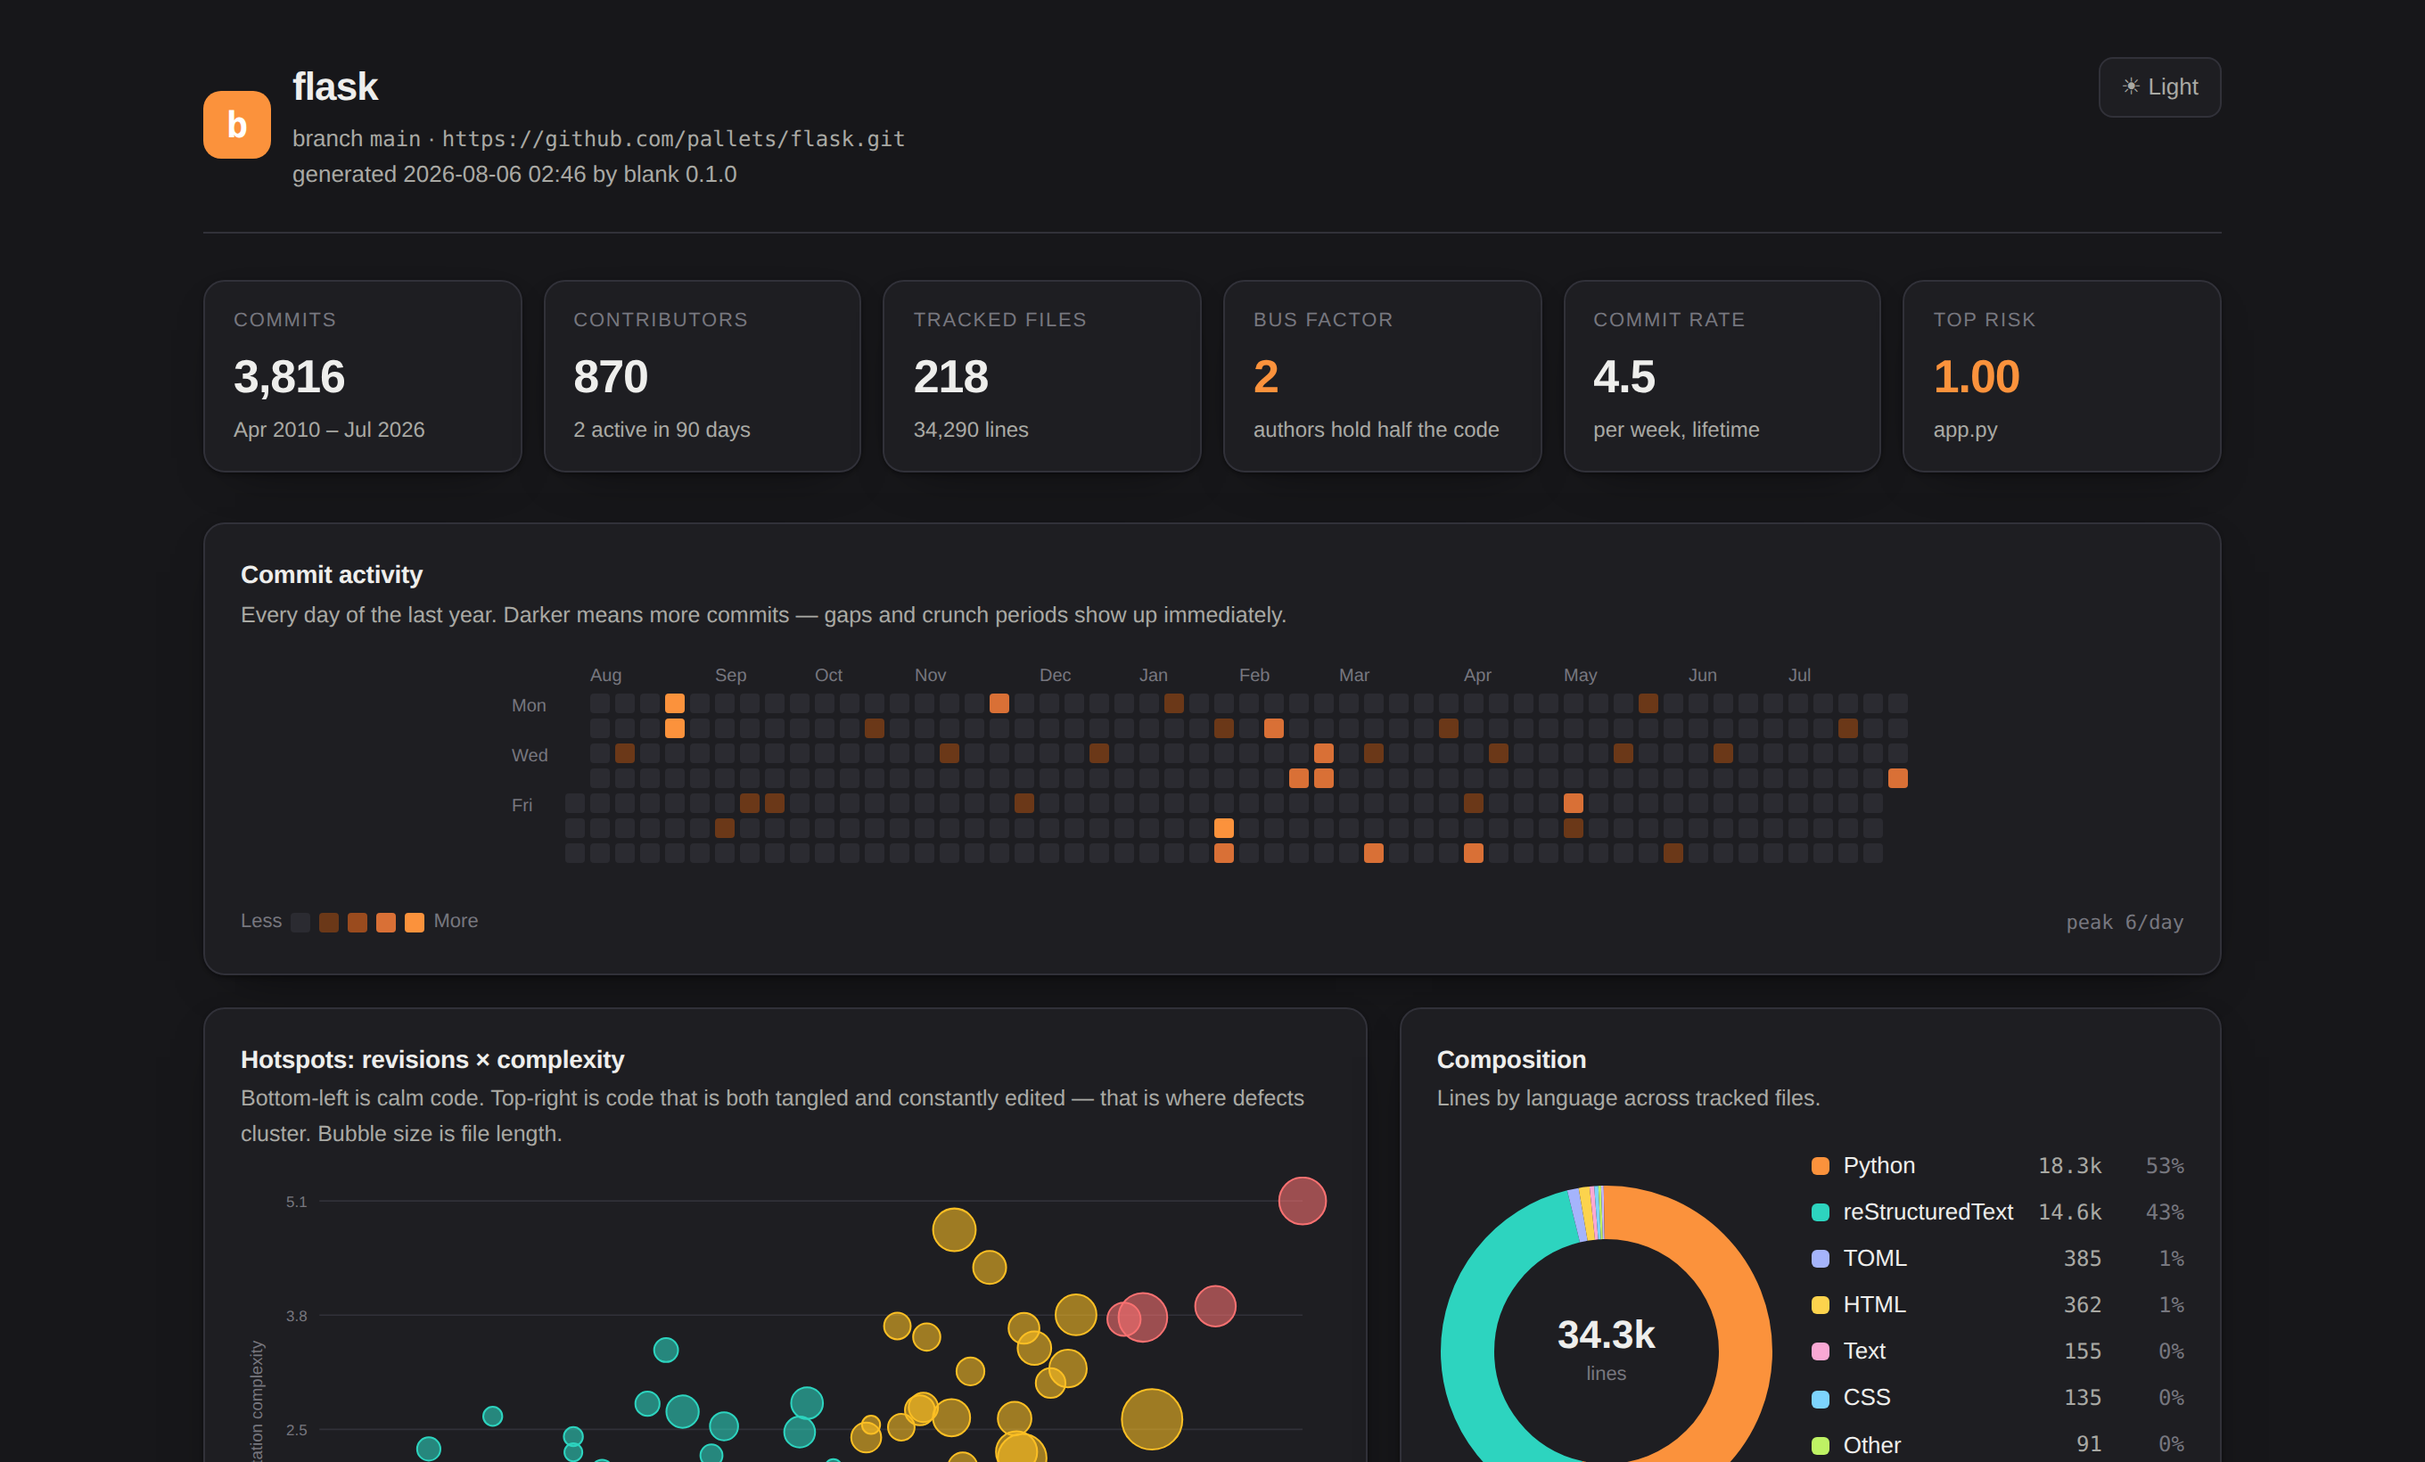
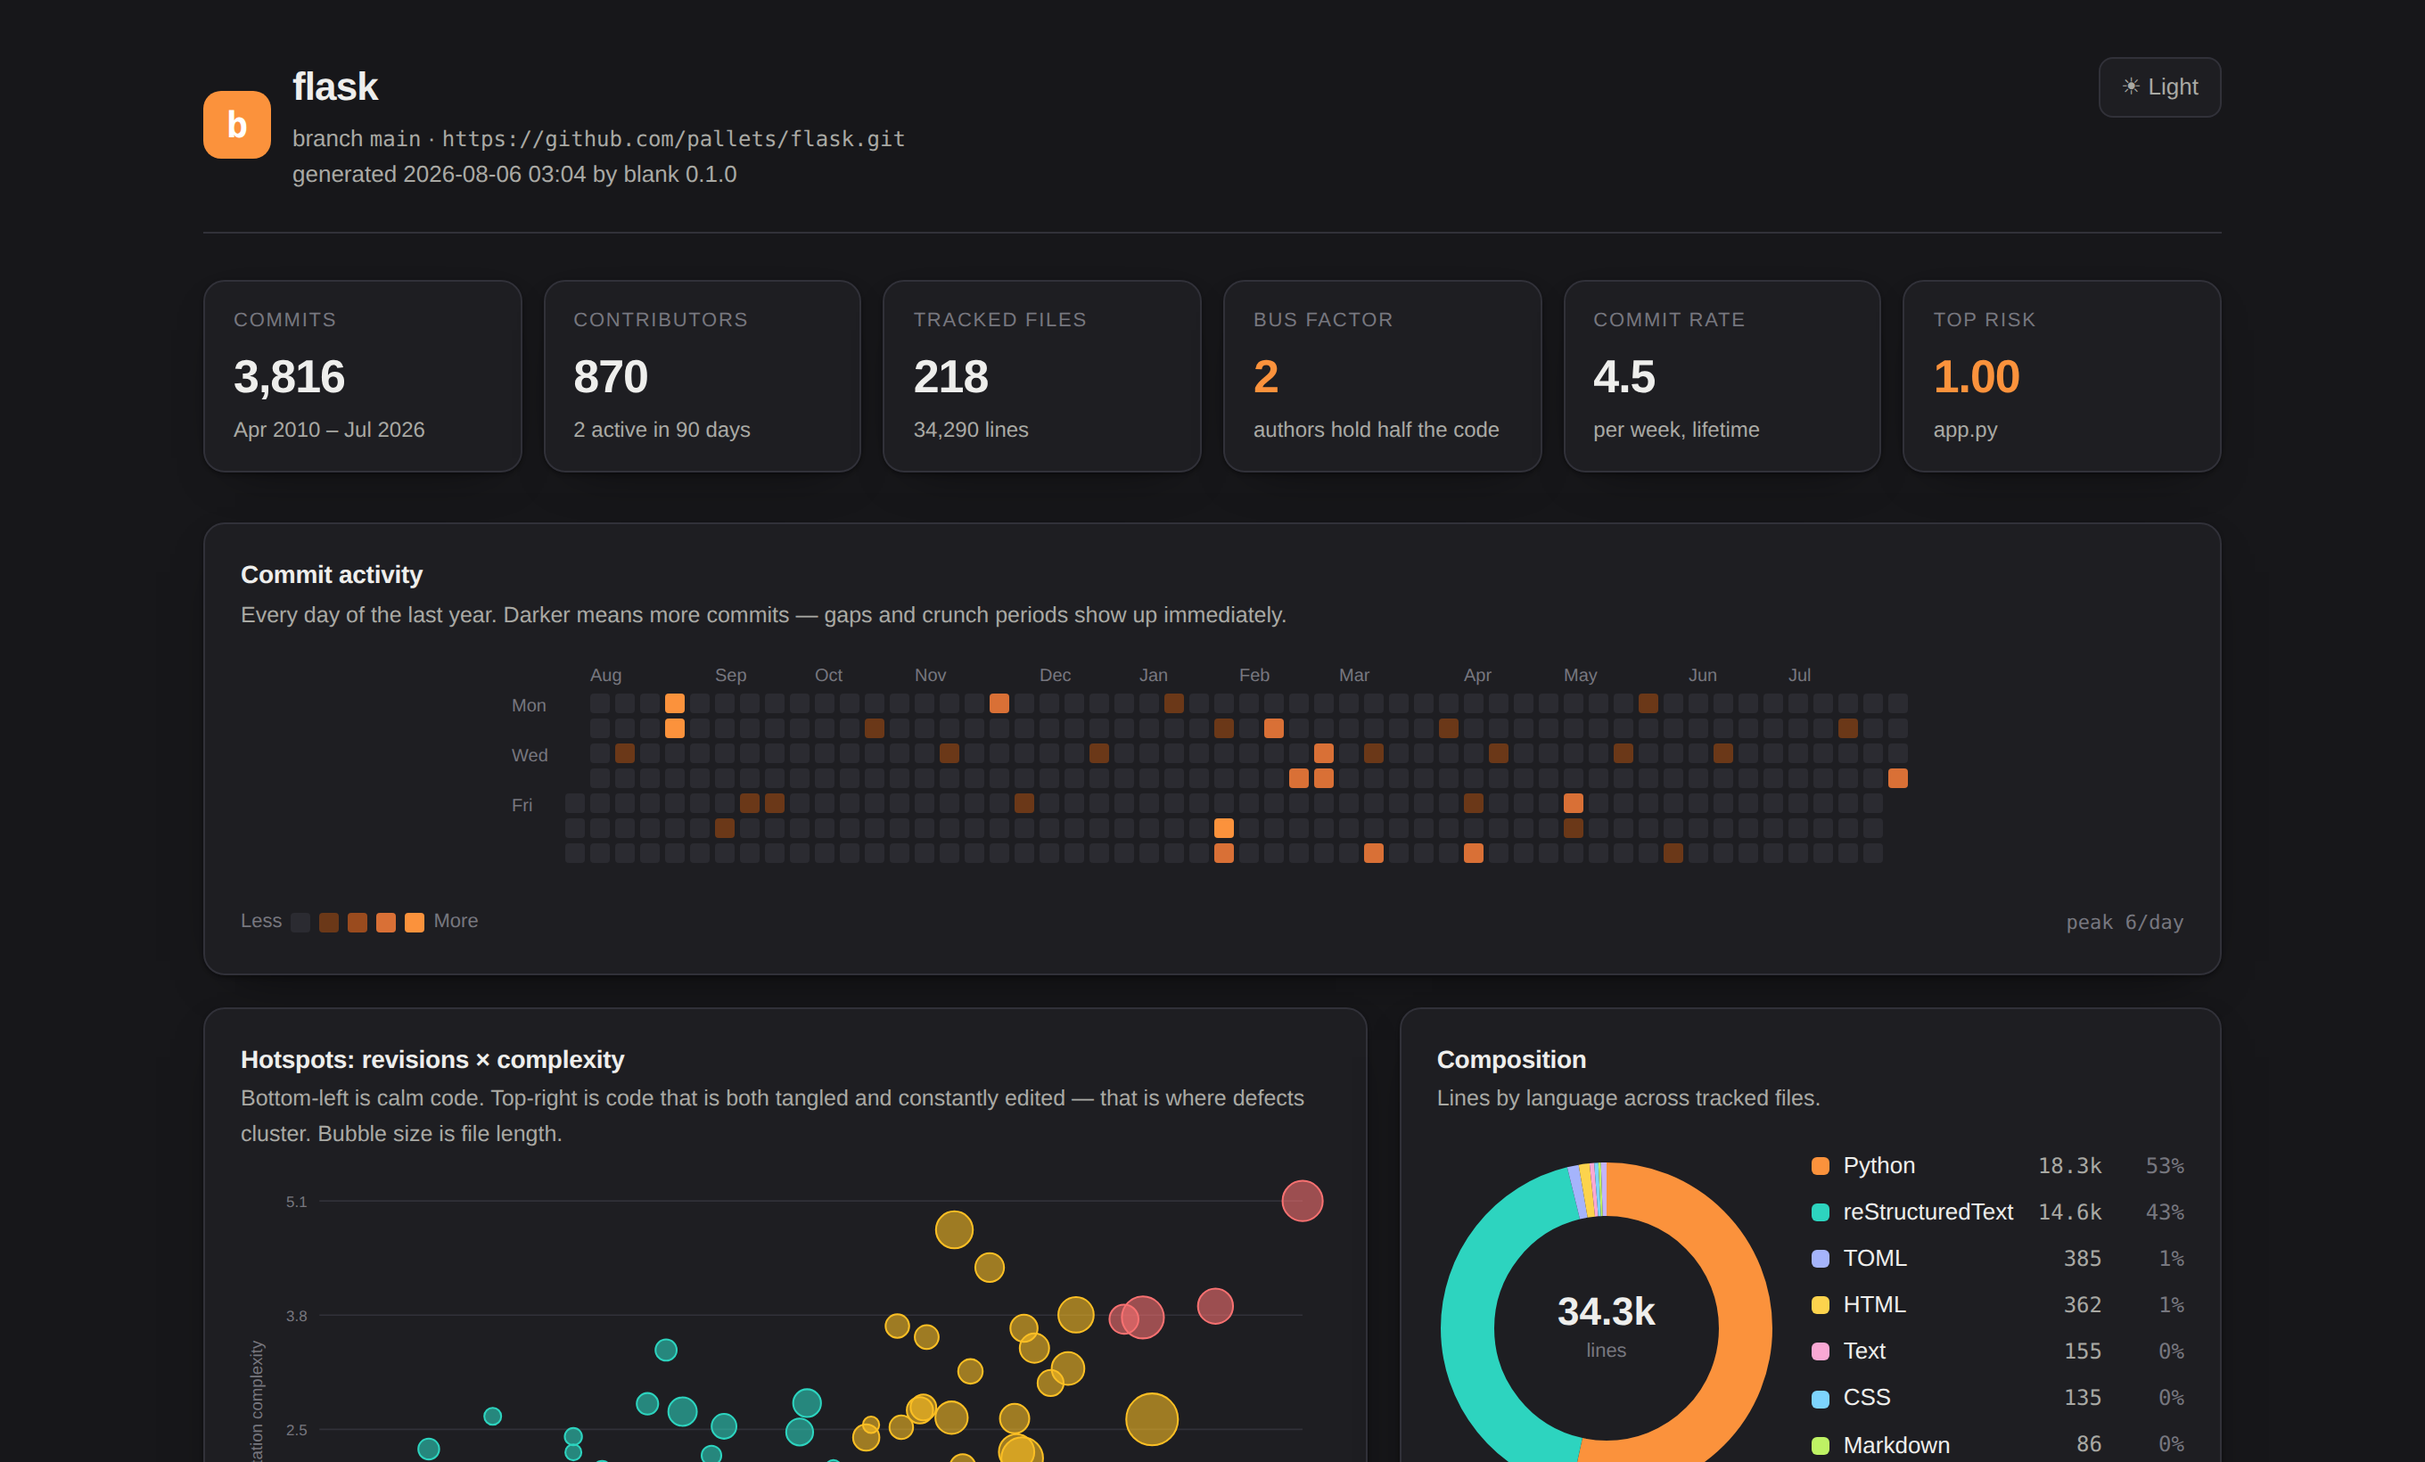
Fix three charting bugs found by stress-testing on django/django
Running against a 34,856-commit, 5,553-file repository surfaced problems
that Flask was too small and too tidy to expose.

The scatter plot was capped at the top 400 files by risk, which deletes
exactly the calm bottom-left the chart exists to contrast against - the
result implied Django has no healthy code at all. It now keeps every
high-risk file and takes an even stride through the rest, and says so in
the caption, so the shape of the distribution survives the cut. Marks
also shrink and thin as the cloud gets denser; at 5,000 files the old
full-size bubbles merged into one unreadable blob.

The composition donut drew two slices both labelled "Other", because
"Other" is simultaneously a real bucket (unrecognised extensions) and the
overflow label. Overflow now merges into the existing slice.

A third of Django by line count was sitting in that mystery bucket: 362k
lines of .po translation catalogs. Gettext, Roff, Batch, Notebook and CSV
are now classified by name and excluded from risk ranking, so the chart
reads "Gettext 33%" instead of an unexplained "Other 34%".

Also corrects a stale "normalised churn" caption left over from the
revisions change.

Measured performance, now in the README: 34s and 399 MB for Django, of
which 29s is `git log` itself - blank is git-bound, not compute-bound,
and rename detection costs nothing. The lever is --since, not the tool.

Claude-Session: https://claude.ai/code/session_015GieBC2QYLY1LeHuSgqgSx

diff --git a/blank/style.css b/blank/style.css
@@ -190,6 +190,7 @@ line.grid { stroke: var(--line); stroke-width: 1; }
 .pt.hot { fill: var(--hot); stroke: var(--hot); }
 .pt.warm { fill: var(--warm); stroke: var(--warm); }
 .pt.cool { fill: var(--cool); stroke: var(--cool); }
+.pt.dense { fill-opacity: .32; stroke-width: .8; }
 .pt:hover { fill-opacity: .95; }
 
 .bars { list-style: none; margin: 0; padding: 0; }

diff --git a/blank/render.py b/blank/render.py
@@ -137,8 +137,16 @@ def _language_card(report: Report) -> str:
     top = report.languages[:8]
     rest = report.languages[8:]
     slices = [(lang, float(lines)) for lang, _, lines in top]
-    if rest:
-        slices.append(("Other", float(sum(lines for _, _, lines in rest))))
+    remainder = float(sum(lines for _, _, lines in rest))
+    if remainder:
+        # "Other" is also a real language bucket (unrecognised extensions), so
+        # merge into it rather than drawing a second slice with the same name.
+        for index, (label, value) in enumerate(slices):
+            if label == "Other":
+                slices[index] = (label, value + remainder)
+                break
+        else:
+            slices.append(("Other", remainder))
     total = sum(value for _, value in slices)
     return (
         '<div class="donut-wrap">'
@@ -157,14 +165,45 @@ def _treemap_card(report: Report) -> str:
     return charts.treemap(items)
 
 
-def _scatter_card(report: Report) -> str:
+_SCATTER_POINTS = 420
+
+
+def _scatter_card(report: Report) -> tuple[str, str]:
+    """Return ``(svg, note)`` for the hotspot scatter.
+
+    Big repositories have more files than a readable chart can hold. Taking the
+    top N by risk would be the obvious cut and is quietly wrong: it deletes
+    exactly the calm bottom-left the chart exists to contrast against, leaving a
+    cloud that implies the codebase has no healthy code. So keep every
+    high-risk file and take an even stride through the rest — the shape of the
+    distribution survives.
+    """
     points = [
         (f.path, float(f.commits), f.complexity, float(max(f.lines, 1)), f.hotspot)
         for f in report.code_files
         if f.commits > 0 and f.complexity > 0
     ]
     points.sort(key=lambda p: p[4], reverse=True)
-    return charts.scatter(points[:400])
+    if len(points) <= _SCATTER_POINTS:
+        return charts.scatter(points), ""
+
+    keep = _SCATTER_POINTS // 2
+    head, tail = points[:keep], points[keep:]
+    stride = max(1, len(tail) // (_SCATTER_POINTS - keep))
+    sampled = head + tail[::stride]
+    note = (
+        f" Showing the {keep} riskiest files plus every {_ordinal(stride)} of the "
+        f"remaining {len(tail):,}, so the shape of the whole distribution survives."
+    )
+    return charts.scatter(sampled), note
+
+
+def _ordinal(n: int) -> str:
+    if 10 <= n % 100 <= 20:
+        suffix = "th"
+    else:
+        suffix = {1: "st", 2: "nd", 3: "rd"}.get(n % 10, "th")
+    return f"{n}{suffix}"
 
 
 def render_html(report: Report) -> str:
@@ -217,6 +256,7 @@ def render_html(report: Report) -> str:
     window_note = "".join(f'<div class="note">{note}</div>' for note in notes)
 
     remote = f' · <code>{esc(report.remote)}</code>' if report.remote else ""
+    scatter_svg, scatter_note = _scatter_card(report)
 
     return f"""<!doctype html>
 <html lang="en">
@@ -259,8 +299,9 @@ def render_html(report: Report) -> str:
   <section class="card span-7">
     <h2>Hotspots: revisions × complexity</h2>
     <p class="hint">Bottom-left is calm code. Top-right is code that is both tangled and
-      constantly edited — that is where defects cluster. Bubble size is file length.</p>
-    {_scatter_card(report)}
+      constantly edited — that is where defects cluster. Bubble size is file length.
+      {scatter_note}</p>
+    {scatter_svg}
   </section>
 
   <section class="card span-5">
@@ -274,7 +315,7 @@ def render_html(report: Report) -> str:
       <div>
         <h2>Risk ranking</h2>
         <p class="hint">Sorted by risk score. Click any column to re-sort.
-          Risk = normalised churn × normalised indentation complexity.</p>
+          Risk = normalised revisions × normalised indentation complexity.</p>
       </div>
       <input class="filter" type="search" placeholder="Filter files…"
              data-filter="#hotspot-table" data-count="#hotspot-count" aria-label="Filter files">

diff --git a/tests/test_scan_and_render.py b/tests/test_scan_and_render.py
@@ -24,6 +24,18 @@ class ClassifyTests(unittest.TestCase):
     def test_unknown_falls_through(self):
         self.assertEqual(scan.classify("data.qqq"), "Other")
 
+    def test_translation_catalogs_are_named_not_dumped_into_other(self):
+        # Django is a third .po by line count; leaving that in "Other" makes
+        # the composition chart useless.
+        self.assertEqual(scan.classify("locale/de/LC_MESSAGES/django.po"), "Gettext")
+        self.assertIn("Gettext", scan.NON_CODE)
+
+    def test_non_code_languages_are_excluded_from_ranking(self):
+        for language in ("Markdown", "JSON", "YAML", "Gettext", "Other"):
+            self.assertIn(language, scan.NON_CODE, language)
+        for language in ("Python", "Go", "Rust", "TypeScript"):
+            self.assertNotIn(language, scan.NON_CODE, language)
+
     def test_skips(self):
         self.assertTrue(scan.should_skip("node_modules/pkg/index.js"))
         self.assertTrue(scan.should_skip("app/bundle.min.js"))
@@ -214,6 +226,46 @@ class RenderTests(unittest.TestCase):
         for record in report.files:
             record.commits = 1
         self.assertIn("Thin history", render_markdown(report))
+
+    def test_overflow_languages_merge_into_the_existing_other_slice(self):
+        from blank.render import _language_card
+        report = make_report()
+        # "Other" is both a real bucket and the overflow label — one slice only.
+        report.languages = (
+            [(f"Lang{i}", 1, 1000 - i * 10) for i in range(8)]
+            + [("Other", 1, 500)]
+            + [(f"Tail{i}", 1, 5) for i in range(4)]
+        )
+        report.languages.sort(key=lambda row: row[2], reverse=True)
+        card = _language_card(report)
+        self.assertEqual(card.count(">Other<"), 1)
+
+    def test_scatter_sampling_keeps_the_low_risk_tail(self):
+        from blank.render import _SCATTER_POINTS, _scatter_card
+        report = make_report()
+        report.files = []
+        for i in range(_SCATTER_POINTS * 4):
+            record = FileMetrics(f"f{i}.py", "Python", 100, 90, 1.0 + (i % 40) / 4, commits=2 + i)
+            record.hotspot = round(i / (_SCATTER_POINTS * 4), 4)
+            report.files.append(record)
+        svg, note = _scatter_card(report)
+        self.assertIn("riskiest files plus every", note)
+        # Both extremes must survive the cut, or the chart lies about the shape.
+        self.assertIn("cool", svg)
+        self.assertIn("hot", svg)
+
+    def test_scatter_does_not_annotate_when_it_shows_everything(self):
+        from blank.render import _scatter_card
+        svg, note = _scatter_card(make_report())
+        self.assertEqual(note, "")
+        self.assertIn("<svg", svg)
+
+    def test_ordinal(self):
+        from blank.render import _ordinal
+        self.assertEqual(
+            [_ordinal(n) for n in (1, 2, 3, 4, 11, 12, 13, 21, 22, 101, 111)],
+            ["1st", "2nd", "3rd", "4th", "11th", "12th", "13th", "21st", "22nd", "101st", "111th"],
+        )
 
     def test_report_derived_properties(self):
         report = make_report()

diff --git a/blank/charts.py b/blank/charts.py
@@ -285,12 +285,20 @@ def scatter(points: Sequence[tuple[str, float, float, float, float]], *, width: 
             f'<text class="axis" x="{pad["l"] - 8}" y="{y + 4:.1f}" text-anchor="end">'
             f"{y_max * (1 - step / 4):.1f}</text>"
         )
+    # A 200-file repo and a 5,000-file repo need different mark sizes: at the
+    # top end, full-size bubbles merge into one unreadable blob. Shrink the
+    # scale and thin the fill as the cloud gets denser.
+    density = min(1.0, len(points) / 300)
+    base, span = 3 + 1 * (1 - density), 6 + 10 * (1 - density)
+    dense = " dense" if density > 0.6 else ""
+
     for point in sorted(points, key=lambda p: p[3], reverse=True):
         label, churn, complexity, size, risk = point
-        radius = 4 + 16 * math.sqrt(size / size_max)
+        radius = base + span * math.sqrt(size / size_max)
         heat = "hot" if risk >= 0.66 else ("warm" if risk >= 0.33 else "cool")
         parts.append(
-            f'<circle class="pt {heat}" cx="{px(churn):.1f}" cy="{py(complexity):.1f}" r="{radius:.1f}">'
+            f'<circle class="pt {heat}{dense}" cx="{px(churn):.1f}" cy="{py(complexity):.1f}" '
+            f'r="{radius:.1f}">'
             f"<title>{esc(label)}\n{int(churn)} revisions · complexity {complexity:.1f} · "
             f"{int(size)} lines</title></circle>"
         )

diff --git a/blank/scan.py b/blank/scan.py
@@ -25,6 +25,9 @@ LANGUAGES: dict[str, str] = {
     ".json": "JSON", ".yaml": "YAML", ".yml": "YAML", ".toml": "TOML", ".ini": "Config",
     ".cfg": "Config", ".xml": "XML", ".proto": "Protobuf", ".graphql": "GraphQL",
     ".tf": "Terraform", ".dockerfile": "Docker", ".nix": "Nix", ".zig": "Zig",
+    ".po": "Gettext", ".pot": "Gettext", ".bat": "Batch", ".cmd": "Batch",
+    ".geojson": "JSON", ".ipynb": "Notebook", ".csv": "CSV", ".tsv": "CSV",
+    ".1": "Roff", ".man": "Roff", ".rdoc": "Text", ".adoc": "Text", ".org": "Text",
 }
 
 FILENAME_LANGUAGES: dict[str, str] = {
@@ -40,7 +43,7 @@ FILENAME_LANGUAGES: dict[str, str] = {
 # from hotspot ranking so a churning CHANGELOG never tops the risk list.
 NON_CODE = {
     "Markdown", "Text", "JSON", "YAML", "TOML", "Config", "XML",
-    "reStructuredText", "CSV", "Other",
+    "reStructuredText", "CSV", "Other", "Gettext", "Roff", "Notebook",
 }
 
 SKIP_DIRS = {

diff --git a/README.md b/README.md
@@ -407,13 +407,38 @@ are excluded so a repo-wide reformat doesn't hand one person the whole codebase.
 
 Single pass over `git log --numstat`, one `os.walk`, everything else in memory.
 
-| Repository | Commits | Files | Time |
-| --- | --- | --- | --- |
-| pallets/flask | 3,816 | 218 | ~2.0 s |
+| Repository | Commits | Files | Time | Peak RSS | Report size |
+| --- | ---: | ---: | ---: | ---: | ---: |
+| pallets/flask | 3,816 | 218 | 1.7 s | 98 MB | 105 KB |
+| django/django | 34,856 | 5,553 | 34 s | 399 MB | 218 KB |
 
-Narrow the window with `--since` or `--max-commits` on very large repositories — and note
-that a shorter window is often *more* useful, since last year's hotspots matter more than
-2014's.
+Measured, not estimated. The interesting part is the breakdown on Django:
+
+```
+git log            29.3 s     ← git walking 35k commits
+parse               0.7 s
+follow renames      0.1 s
+scan tree           0.9 s
+coupling            0.4 s
+```
+
+**`blank` is git-bound, not compute-bound.** Roughly 86% of a large run is `git log`
+itself computing diffs; everything blank does on top costs about two seconds. Rename
+detection (`-M`) is free — with and without it, git takes the same 29 seconds.
+
+So the lever is the history window, not the tool:
+
+```bash
+blank scan . --since "18 months ago"     # usually the more useful report anyway
+blank scan . --max-commits 5000
+```
+
+A shorter window is often *better*, not just faster: last year's hotspots tell you where
+the work is now, while a decade of history mostly tells you which files are old.
+
+Memory scales with commit count, since the parsed history is held at once — budget a
+~50 MB baseline plus roughly 10 MB per thousand commits, and reach for `--since` somewhere
+past 50k.
 
 ---
 
